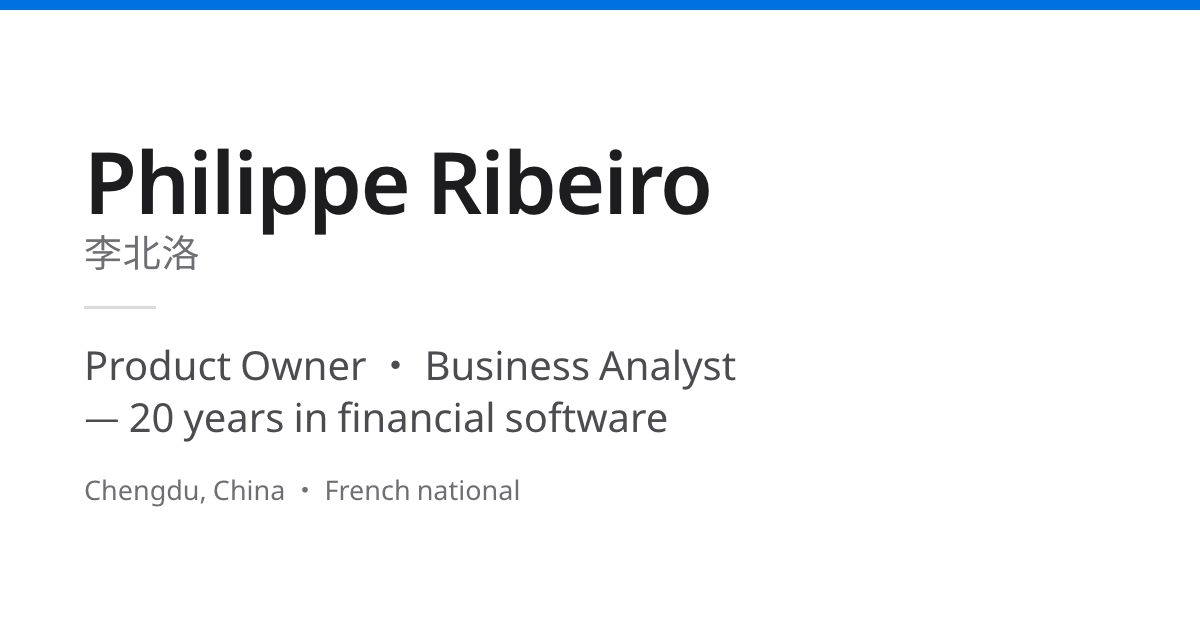
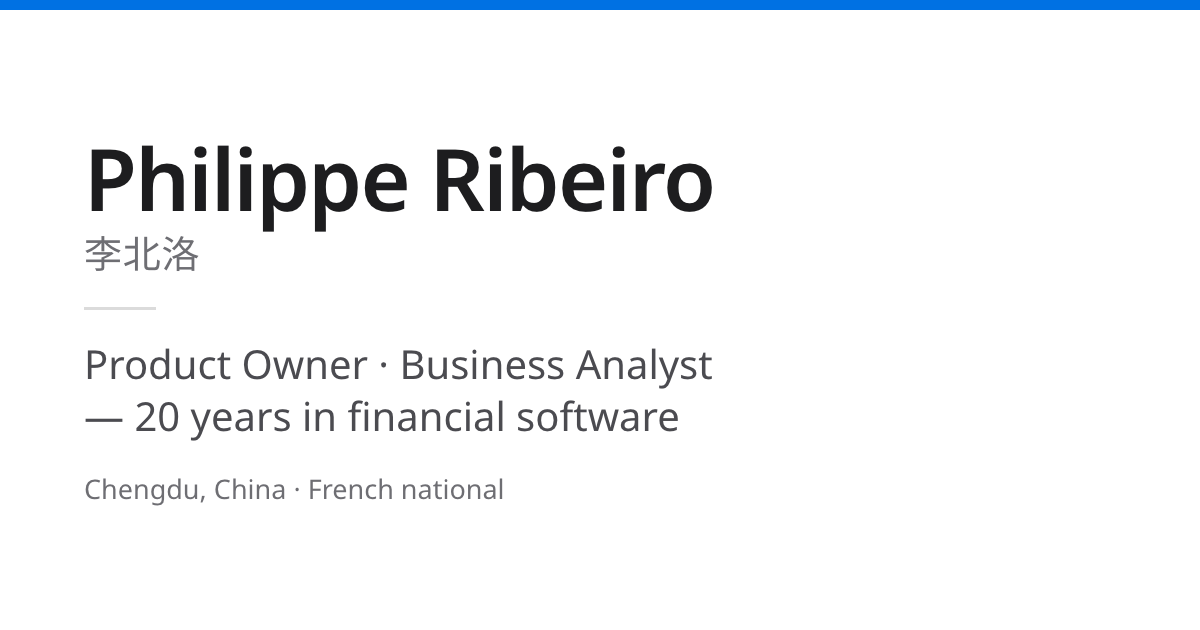
fix: give the home page anchors that resolve, and og:update its fonts
Three findings from the re-audit, verified before fixing:

The home page renders the CV’s hero, whose buttons named `#contact` and
`#about` — sections that exist on the CV and nowhere else. Every language’s
home page shipped two dead buttons. `hero()` now takes the two hrefs from
its caller, the way `nav()` already took its links: in-page anchors on the
CV, `cv.html#contact` from the home page, depth-correct through `hrefTo`.
The anchor and unique-id checks used to run on the CV alone, which was the
only page that could pass them; they now run on all four page kinds.

`bun run og:update` read `noto-sans-latin.woff2` and `noto-sans-sc.woff2`,
which stopped existing when the generator started asking Google in batches.
It now takes the faces from FONT_FACES — regenerated with the files
themselves — and inlines each with its `unicode-range`, so the Chinese name
is routed rather than left to fall through. Verified by rendering the card.

AGENTS.md described `src/richtext.ts`, run-based measurement and an
IntersectionObserver that live on `philippe-wip`, not here, and still said
frontmatter was parsed without YAML. Both now describe this branch.

diff --git a/scripts/og-image.ts b/scripts/og-image.ts
@@ -22,6 +22,7 @@ import { tmpdir } from "node:os";
 import { join } from "node:path";
 import { PROFILE, translations } from "../src/translations.ts";
 import { escapeHtml } from "../src/dom.ts";
+import { FONT_FACES, fontFaceCss } from "../src/fonts.ts";
 
 /** Baked into every page as og:image:width / og:image:height. Keep in step. */
 export const OG_SIZE = { width: 1200, height: 630 } as const;
@@ -61,7 +62,7 @@ body {
   /* A single hairline of colour, the way the page uses its accent: as a mark,
      never as a field. */
   border-top: 10px solid var(--accent);
-  font-family: 'Noto Sans', system-ui, sans-serif;
+  font-family: 'Noto Sans', 'Noto Sans SC', system-ui, sans-serif;
   color: var(--fg);
   -webkit-font-smoothing: antialiased;
 }
@@ -114,24 +115,40 @@ body {
 }
 
 /**
+ * The families the card draws with: Latin for the name and the title, SC for
+ * 李北洛. TC and HK carry the same characters in other forms and no page of the
+ * card is written in them, so they would only make the temporary page heavier.
+ */
+const CARD_FAMILIES = new Set(["Noto Sans", "Noto Sans SC"]);
+
+/**
  * @font-face rules with the subsets inlined as data URIs. The card is rendered
  * from a temporary file:// page, where a linked font is a cross-origin request
  * Chrome refuses—inlining sidesteps that, and costs nothing in a throwaway
- * page. No unicode-range: with only two families there is nothing to route,
- * and the Chinese name has to fall through to the second one.
+ * page.
+ *
+ * The faces come from FONT_FACES rather than from names spelled out here, and
+ * that is the whole point: this function used to name `noto-sans-latin.woff2`
+ * and `noto-sans-sc.woff2`, which stopped existing the day the generator
+ * started asking Google in batches (`-1`, `-2`…). It failed on ENOENT while
+ * every test still passed, since the test renders the card without fonts.
+ * FONT_FACES is regenerated with the files themselves, so it cannot fall out
+ * of step with them.
  */
 async function inlineFontCss(): Promise<string> {
-  const files = [
-    "src/fonts/noto-sans-latin.woff2",
-    "src/fonts/noto-sans-sc.woff2",
-  ];
-  const rules = await Promise.all(files.map(async (path) => {
-    const b64 = Buffer.from(await Bun.file(path).arrayBuffer()).toString(
-      "base64",
-    );
-    return `@font-face{font-family:'Noto Sans';font-style:normal;font-weight:400 800;src:url(data:font/woff2;base64,${b64}) format('woff2');}`;
-  }));
-  return rules.join("\n");
+  const faces = FONT_FACES.filter((face) => CARD_FAMILIES.has(face.family));
+  const inlined = await Promise.all(faces.map(async (face) => ({
+    ...face,
+    // In the Bun runtime a `.woff2` import resolves to the file’s own path,
+    // which is what makes reading it here possible at all.
+    url: `data:font/woff2;base64,${
+      Buffer.from(await Bun.file(face.url).arrayBuffer()).toString("base64")
+    }`,
+  })));
+  // The same generator the pages use: one `unicode-range` per batch, so the
+  // Chinese name is routed to the SC face that actually carries it instead of
+  // relying on a fallthrough between two faces of one family.
+  return fontFaceCss(inlined);
 }
 
 if (import.meta.main) {

diff --git a/src/render/blog.test.ts b/src/render/blog.test.ts
@@ -8,7 +8,7 @@
 import { expect, test } from "bun:test";
 import { escapeHtml } from "../dom.ts";
 import type { PostMeta } from "../post.ts";
-import { renderPage } from "../render.ts";
+import { type Page, renderPage } from "../render.ts";
 import { translations } from "../translations.ts";
 
 const post = (
@@ -128,3 +128,41 @@ test("an article's body is never escaped, its title always is", () => {
   expect(html).toContain("<em>vrai</em>");
   expect(html).toContain("5 &lt; 6 &amp;");
 });
+
+/*
+ * The CV used to be the only page tested for this, and it was the only page
+ * that could pass: the home page renders the CV’s hero, whose two buttons
+ * named `#contact` and `#about`—sections that exist on the CV and nowhere
+ * else. Both shipped as dead anchors on every language’s home page. The check
+ * belongs to every kind of page, not to the one that happened to satisfy it.
+ */
+const PAGES: Page[] = [
+  { kind: "home", posts: POSTS },
+  { kind: "cv" },
+  { kind: "blogIndex", posts: POSTS },
+  { kind: "post", post: post("a", "fr"), html: "<p>x</p>", posts: POSTS },
+];
+
+test.each(PAGES.map((page) => [page.kind, page] as const))(
+  "%s: every hash anchor resolves to an id on the same page",
+  (_kind, page) => {
+    const html = renderPage(page, "fr", "light");
+    const ids = new Set([...html.matchAll(/ id="([^"]+)"/g)].map((m) => m[1]!));
+    // Same-page anchors only: `cv.html#about` is a link to another document,
+    // and its target is that document’s business.
+    const hashes = [...html.matchAll(/ href="#([^"]+)"/g)].map((m) => m[1]!);
+
+    expect(hashes.length).toBeGreaterThan(0);
+    for (const hash of hashes) expect(ids.has(hash)).toBe(true);
+  },
+);
+
+test.each(PAGES.map((page) => [page.kind, page] as const))(
+  "%s: no id is used twice",
+  (_kind, page) => {
+    const ids = [...renderPage(page, "fr", "light").matchAll(/ id="([^"]+)"/g)]
+      .map((m) => m[1]!);
+
+    expect(new Set(ids).size).toBe(ids.length);
+  },
+);

diff --git a/AGENTS.md b/AGENTS.md
@@ -124,10 +124,13 @@ rediscover.
   name IS the language. An article exists in 1..n languages; an index lists only
   what exists in it. `zh-hk` needs no file—writing `zh-hant.md` is enough, the
   projection derives it; an explicit `zh-hk.md` wins.
-- Frontmatter is a strict micro-grammar (`title`, `date` required; `summary`,
-  `tags`, `draft`, `updated` optional)—no YAML, and every refusal names the file
-  ([scripts/frontmatter.ts](scripts/frontmatter.ts)). A `draft: true` is
-  excluded unless `DRAFTS=1`.
+- Frontmatter is YAML, parsed by `Bun.YAML.parse` and then held to a strict
+  contract (`title`, `date` required; `summary`, `tags`, `draft`, `updated`
+  optional; any other key refused, duplicates refused, `2026-02-31` refused).
+  Bun owns the grammar so authors write the YAML they know from every other
+  generator; [scripts/frontmatter.ts](scripts/frontmatter.ts) owns the contract,
+  and every refusal names the file. A `draft: true` is excluded unless
+  `DRAFTS=1`.
 - Raw HTML in a source is refused by the build’s allowlist guard
   ([scripts/markdown.ts](scripts/markdown.ts)): GFM only.
 - After writing: `bun run fonts:update` (new glyphs), then `bun run preview` to
@@ -369,33 +372,30 @@ later); this site targets modern browsers only, so don’t down-level.
   needs a browser—re-measure it when the name or the display font changes.
 - **Knuth–Plass.** [src/linebreak.ts](src/linebreak.ts) runs optimal, TeX-style
   line breaking over pretext-measured boxes and glue, with `hyphen` supplying
-  syllable break points, to justify the About paragraphs and the articles. Glue
-  uses `shrink: 0` because CSS `text-align: justify` can only stretch spaces,
-  never shrink them. Keep that invariant, and keep the small target-width
-  margin, or lines will wrap. The paragraph arrives as styled **runs**
-  (`Run[]`), each box measured in its own font—a bold or monospace span is wider
-  than prose (+1.5%/+8.1% measured), and flat measurement overflows the computed
-  line. A run with `extraWidth` (inline code's padding/borders) is atomic: never
-  split, never hyphenated, charged its full width. Chinese pages get no
-  Knuth–Plass (no patterns, native justify is already near-optimal).
-- **Rich runs in the DOM.** [src/richtext.ts](src/richtext.ts) reads a
-  paragraph's runs from its text nodes (`runsFrom`, DOM half) and rebuilds it as
-  one `.kp-line` span per line with each run's inline chain reopened
-  (`buildLinesHtml`, pure half—unit-tested without a document). Composition is
-  scheduled by an `IntersectionObserver` with one screen of `rootMargin`, so a
-  40-paragraph article typesets just before each paragraph scrolls into view
-  (measured CLS: 0); a resize recomposes only paragraphs already composed.
-  Measured limitation, shared with the About path since the beginning:
-  find-in-page does not match a phrase spanning a computed line break, because
-  the spans are block-level.
+  syllable break points. It is applied to one thing today: the About paragraphs
+  (`p.kp`), re-typeset by `enhanceAboutKp` in [src/main.ts](src/main.ts) as one
+  `.kp-line` span per line. Glue uses `shrink: 0` because CSS
+  `text-align: justify` can only stretch spaces, never shrink them. Keep that
+  invariant, and keep the small target-width margin, or lines will wrap. Below
+  `KP_MIN_WIDTH_PX` (280) the paragraph stays plain—narrower than that,
+  ragged-right really is more legible—and a resize back down undoes the spans
+  rather than leaving the last layout behind. Chinese pages get no Knuth–Plass
+  (no patterns, native justify is already near-optimal).
+- **Article bodies are not re-typeset here.** They ship as the browser lays them
+  out, `.post` giving them a 65ch measure. Extending Knuth–Plass to them means
+  measuring styled **runs** rather than flat text—a bold or monospace span is
+  wider than prose, so flat measurement overflows the computed line—and
+  scheduling the work per paragraph so a long article does not typeset all at
+  once. That work exists on the `philippe-wip` branch, not on this one: do not
+  document it here until it lands, and do not expect a `src/richtext.ts` to be
+  present.
 
 ## 9. Rendering and Enhancement
 
 - **The enhancement inventory.** Each one runs after paint, and none is
   load-bearing: pretext-measured fitting of the hero name, the section titles,
   and the nav shortcuts ([src/measure.ts](src/measure.ts)); Knuth–Plass
-  re-typesetting of the About paragraphs and article bodies
-  ([src/linebreak.ts](src/linebreak.ts) + [src/richtext.ts](src/richtext.ts));
+  re-typesetting of the About paragraphs ([src/linebreak.ts](src/linebreak.ts));
   tight-wrapped chat bubbles ([src/chat.ts](src/chat.ts)); reveal-on-scroll with
   stat counters; the theme toggle; and reload-free language switching (CV page
   only—the blog pages navigate). If any one fails, the pre-rendered content
